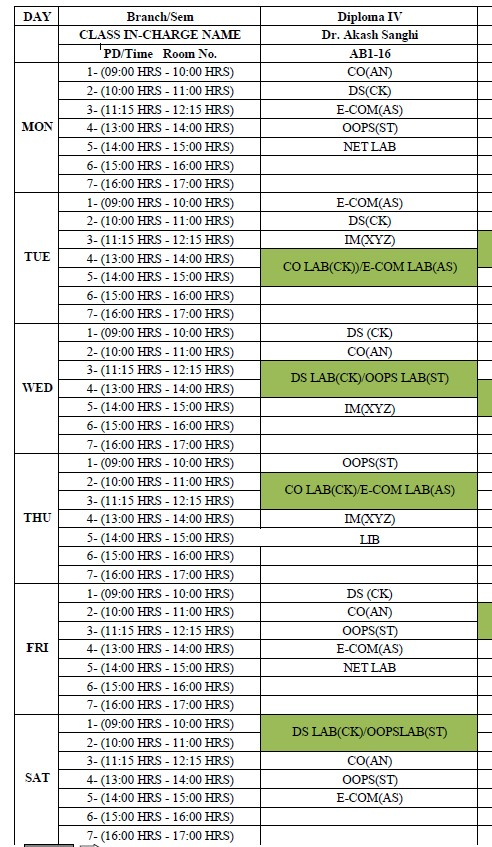
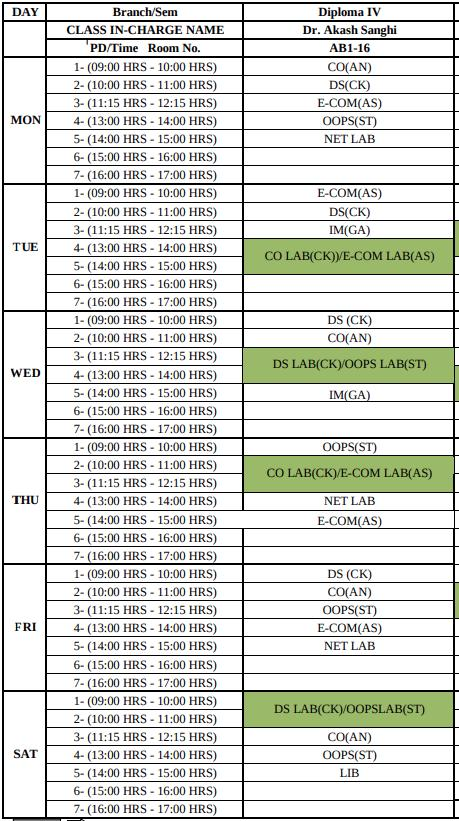
Updated time table for 12th of april 2021

diff --git a/time_table.html b/time_table.html
@@ -17,8 +17,8 @@
 
         <div class="jumbotron text-center blue" style="margin-bottom:0">
             <h1>Time Table</h1>
-            <p>W.E.F. 15 March 2021</p>
-            <p></p> 
+            <p>W.E.F. April 12, 2021</p>
+            <p></p>
         </div>
         <!-- Navbar  -->
         <nav class="navbar navbar-expand-sm bg-dark navbar-dark">
@@ -42,12 +42,12 @@
                     </li>
                     <li class="nav-item">
                         <a class="nav-link" href="notice.html">Class Notices</a>
-                    </li> 
+                    </li>
                     <li class="nav-item">
                         <a class="nav-link" href="contact.html">Contact</a>
-                    </li>     
+                    </li>
                 </ul>
-            </div>  
+            </div>
         </nav>
         <div id="bg2">
             <!-- Main Content  -->
